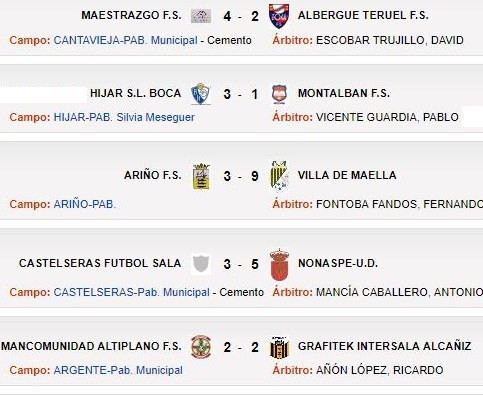
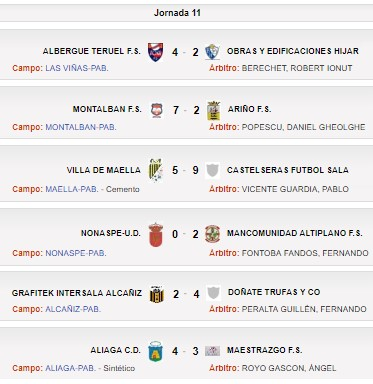
Add files via upload

diff --git a/web/index.html b/web/index.html
@@ -158,7 +158,7 @@ Author: Victor
 						<br></br>
 						
 						<h3> Resultados </h3>
-							<img class="img-responsive2" src="images/resultados2.png"  /> <br>
+							<img class="img-responsive2" src="images/resultados.jpg"  /> <br>
 							<h4> 
 								<a href="http://www.futbolaragon.com/pnfg/NPcd/NFG_CmpJornada?cod_primaria=1000120&CodTemporada=14&CodGrupo=2771849&CodCompeticion=2771846&CodJornada=11">
 									<img src="images/balon.png" width="30" height="30">  Ultimos resultados

diff --git a/web/contact.html b/web/contact.html
@@ -48,7 +48,10 @@ License URL: http://creativecommons.org/licenses/by/3.0/
 			<!-- container 1, fondo blanco -->
 			<div class="container">
 				<div class="header-middle-logo">
-					<a href="index.html"> <img src="images/zonafs.png" width="84" height="108" /> &nbsp Zona FS  </a>
+					<a href="index.html"> 
+						<img src="images/zonabig.jpg" width="84" height="auto" /> 
+						&nbsp Zona FS
+					</a>
 				</div>
 				<div class="header-middle-right">
 					<div class="phone">

diff --git a/web/matches.html b/web/matches.html
@@ -46,7 +46,10 @@ License URL: http://creativecommons.org/licenses/by/3.0/
 			<!-- container 1, fondo blanco -->
 			<div class="container">
 				<div class="header-middle-logo">
-					<a href="index.html"> <img src="images/zonafs.png" width="84" height="108" /> &nbsp Zona FS  </a>
+					<a href="index.html"> 
+						<img src="images/zonabig.jpg" width="84" height="auto" /> 
+						&nbsp Zona FS
+					</a>
 				</div>
 				<div class="header-middle-right">
 					<div class="phone">

diff --git a/web/matches2.html b/web/matches2.html
@@ -46,7 +46,10 @@ License URL: http://creativecommons.org/licenses/by/3.0/
 			<!-- container 1, fondo blanco -->
 			<div class="container">
 				<div class="header-middle-logo">
-					<a href="index.html"> <img src="images/zonafs.png" width="84" height="108" /> &nbsp Zona FS  </a>
+					<a href="index.html"> 
+						<img src="images/zonabig.jpg" width="84" height="auto" /> 
+						&nbsp Zona FS
+					</a>
 				</div>
 				<div class="header-middle-right">
 					<div class="phone">

diff --git a/web/single.html b/web/single.html
@@ -45,7 +45,10 @@ License URL: http://creativecommons.org/licenses/by/3.0/
 			<!-- container 1, fondo blanco -->
 			<div class="container">
 				<div class="header-middle-logo">
-					<a href="index.html"> <img src="images/zonafs.png" width="84" height="108" /> &nbsp Zona FS  </a>
+					<a href="index.html"> 
+						<img src="images/zonabig.jpg" width="84" height="auto" /> 
+						&nbsp Zona FS
+					</a>
 				</div>
 				<div class="header-middle-right">
 					<div class="phone">

diff --git a/web/single1.html b/web/single1.html
@@ -45,7 +45,10 @@ License URL: http://creativecommons.org/licenses/by/3.0/
 			<!-- container 1, fondo blanco -->
 			<div class="container">
 				<div class="header-middle-logo">
-					<a href="index.html"> <img src="images/zonafs.png" width="84" height="108" /> &nbsp Zona FS  </a>
+					<a href="index.html"> 
+						<img src="images/zonabig.jpg" width="84" height="auto" /> 
+						&nbsp Zona FS
+					</a>
 				</div>
 				<div class="header-middle-right">
 					<div class="phone">

diff --git a/web/single2.html b/web/single2.html
@@ -45,7 +45,10 @@ License URL: http://creativecommons.org/licenses/by/3.0/
 			<!-- container 1, fondo blanco -->
 			<div class="container">
 				<div class="header-middle-logo">
-					<a href="index.html"> <img src="images/zonafs.png" width="84" height="108" /> &nbsp Zona FS  </a>
+					<a href="index.html"> 
+						<img src="images/zonabig.jpg" width="84" height="auto" /> 
+						&nbsp Zona FS
+					</a>
 				</div>
 				<div class="header-middle-right">
 					<div class="phone">

diff --git a/web/single3.html b/web/single3.html
@@ -45,7 +45,10 @@ License URL: http://creativecommons.org/licenses/by/3.0/
 			<!-- container 1, fondo blanco -->
 			<div class="container">
 				<div class="header-middle-logo">
-					<a href="index.html"> <img src="images/zonafs.png" width="84" height="108" /> &nbsp Zona FS  </a>
+					<a href="index.html"> 
+						<img src="images/zonabig.jpg" width="84" height="auto" /> 
+						&nbsp Zona FS
+					</a>
 				</div>
 				<div class="header-middle-right">
 					<div class="phone">

diff --git a/web/single4.html b/web/single4.html
@@ -45,7 +45,10 @@ License URL: http://creativecommons.org/licenses/by/3.0/
 			<!-- container 1, fondo blanco -->
 			<div class="container">
 				<div class="header-middle-logo">
-					<a href="index.html"> <img src="images/zonafs.png" width="84" height="108" /> &nbsp Zona FS  </a>
+					<a href="index.html"> 
+						<img src="images/zonabig.jpg" width="84" height="auto" /> 
+						&nbsp Zona FS
+					</a>
 				</div>
 				<div class="header-middle-right">
 					<div class="phone">

diff --git a/web/single5.html b/web/single5.html
@@ -45,7 +45,10 @@ License URL: http://creativecommons.org/licenses/by/3.0/
 			<!-- container 1, fondo blanco -->
 			<div class="container">
 				<div class="header-middle-logo">
-					<a href="index.html"> <img src="images/zonafs.png" width="84" height="108" /> &nbsp Zona FS  </a>
+					<a href="index.html"> 
+						<img src="images/zonabig.jpg" width="84" height="auto" /> 
+						&nbsp Zona FS
+					</a>
 				</div>
 				<div class="header-middle-right">
 					<div class="phone">

diff --git a/web/about.html b/web/about.html
@@ -45,7 +45,10 @@ Author: Victor
 			<!-- container 1, fondo blanco -->
 			<div class="container">
 				<div class="header-middle-logo">
-					<a href="index.html"> <img src="images/zonafs.png" width="84" height="108" /> &nbsp Zona FS  </a>
+					<a href="index.html"> 
+						<img src="images/zonabig.jpg" width="84" height="auto" /> 
+						&nbsp Zona FS
+					</a>
 				</div>
 				<div class="header-middle-right">
 					<div class="phone">

diff --git a/web/gallery.html b/web/gallery.html
@@ -40,7 +40,10 @@ Author: Victor
 			<!-- container 1, fondo blanco -->
 			<div class="container">
 				<div class="header-middle-logo">
-					<a href="index.html"> <img src="images/zonafs.png" width="84" height="108" /> &nbsp Zona FS  </a>
+					<a href="index.html"> 
+						<img src="images/zonabig.jpg" width="84" height="auto" /> 
+						&nbsp Zona FS
+					</a>
 				</div>
 				<div class="header-middle-right">
 					<div class="phone">
